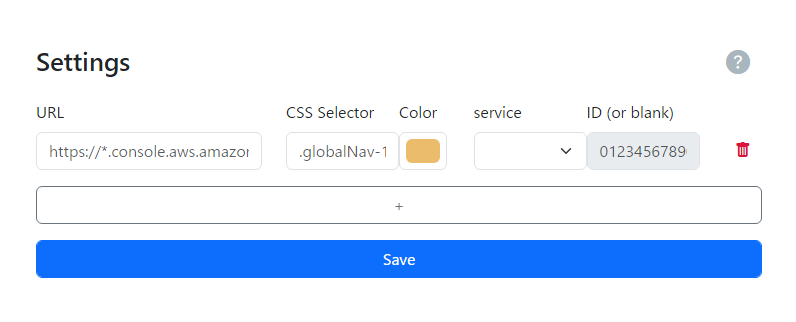
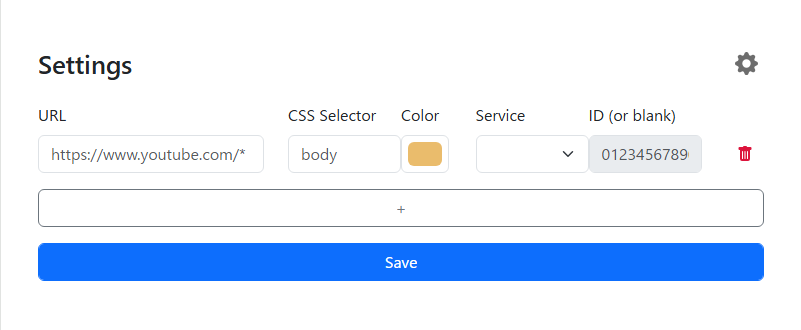
[document fixed] 説明文を追加

diff --git a/view/import_export.html b/view/import_export.html
@@ -6,7 +6,7 @@
     <title>Color Switch Description</title>
     <!-- Bootstrap CSS -->
     <link rel="stylesheet" href="../bootstrap-5.3.0-dist/css/bootstrap.css" />
-    <link href="https://cdn.jsdelivr.net/npm/bootstrap@5.0.2/dist/css/bootstrap.min.css" rel="stylesheet" integrity="sha384-EVSTQN3/azprG1Anm3QDgpJLIm9Nao0Yz1ztcQTwFspd3yD65VohhpuuCOmLASjC" crossorigin="anonymous">
+    <!-- <link href="https://cdn.jsdelivr.net/npm/bootstrap@5.0.2/dist/css/bootstrap.min.css" rel="stylesheet" integrity="sha384-EVSTQN3/azprG1Anm3QDgpJLIm9Nao0Yz1ztcQTwFspd3yD65VohhpuuCOmLASjC" crossorigin="anonymous"> -->
     <style>
       /* Adding soft black shadow around the image */
       .shadowed-img {
@@ -42,7 +42,7 @@
       .nav-link {
         font-size: 1.5em;
       }
-      .area-import{
+      .area-import-export{
         background-color: rgb(242, 242, 242);
         border-radius: 20px;
         width: fit-content;
@@ -77,21 +77,37 @@
 
       <!-- メインページ -->
       <div class="col-8">
-        <div class="area-import mt-5 mb-5 pt-4" style="width: 450px;">
+        <!-- 説明 -->
+        <div class="card mt-3 mb-3">
+          <div class="card-header">
+            <strong>Import and Export</strong>
+          </div>
+          <div class="card-body">
+            <p>
+              You can import and export settings. Only Json format is supported. <br>Click on the 🛈 button to see examples and hover over each button to see a description.
+            </p>
+            <p>
+              設定のインポート・エクスポートが可能です。<br>
+              形式はJsonのみ対応しており、🛈ボタンを押すと例が表示されます。<br>
+              また各ボタンにホバーすることで説明を見れます。
+            <p>
+          </div>
+        </div>
+        <!-- エクスポートボタン -->
+        <div class="area-import-export mt-4 mb-4 pt-3" style="width: 450px;">
           <h1 class="h3 mt-5 text-center">Export</h1>
           <div class="d-flex justify-content-center">
             <div class="row">
-              <!-- エクスポートボタン -->
               <button type="button" class="btn btn-primary mt-4 mb-3" id="export" data-bs-toggle="tooltip" data-bs-placement="right" data-bs-custom-class="custom-tooltip" data-bs-html="true" data-bs-title="Export current settings.<br> 現在の設定をエクスポートします。">Export Json</button>
             </div>
           </div>
         </div>
         <!-- インポートボタン -->
         <div class="row">
-          <div class="area-import pt-5 pb-5 col-1" style="width: 450px;" >
-            <h1 class="h3 pb-3 text-center">Import Json
+          <div class="area-import-export pt-4 pb-5 col-1" style="width: 450px;" >
+            <h1 class="h3 pb-3 text-center">Import
               <button id="info-icon" class="bi-question-circle-fill pt-4" data-bs-toggle="tooltip" data-bs-placement="right" data-bs-custom-class="custom-tooltip" data-bs-html="true" data-bs-title="Show example format.<br> 例を表示する。">
-                <svg xmlns="http://www.w3.org/2000/svg" width="23" height="23" fill="currentColor" class="bi bi-info-circle" viewBox="0 0 16 16">
+                <svg width="23" height="23" fill="currentColor" class="bi bi-info-circle" viewBox="0 0 16 16">
                   <path d="M8 15A7 7 0 1 1 8 1a7 7 0 0 1 0 14m0 1A8 8 0 1 0 8 0a8 8 0 0 0 0 16"/>
                   <path d="m8.93 6.588-2.29.287-.082.38.45.083c.294.07.352.176.288.469l-.738 3.468c-.194.897.105 1.319.808 1.319.545 0 1.178-.252 1.465-.598l.088-.416c-.2.176-.492.246-.686.246-.275 0-.375-.193-.304-.533zM9 4.5a1 1 0 1 1-2 0 1 1 0 0 1 2 0"/>
                 </svg>
@@ -99,7 +115,7 @@
             
             <div class="d-flex justify-content-center">
               <div class="row">
-                <input type="file" class="form-control col-3 mt-3 mb-3" id="file-chooser" accept=".json" data-bs-toggle="tooltip" data-bs-placement="right" data-bs-custom-class="custom-tooltip" data-bs-html="true" data-bs-title="You can import only json format.<br> Jsonファイルのみインポート可能です。"/>
+                <input type="file" class="form-control col-3 mt-3 mb-3" id="file-chooser" accept=".json" data-bs-toggle="tooltip" data-bs-placement="right" data-bs-custom-class="custom-tooltip" data-bs-html="true" data-bs-title="Only json format supported.<br> Jsonファイルのみインポート可能です。"/>
               </div>
             </div>
             <div class="d-flex justify-content-center">

diff --git a/view/info.html b/view/info.html
@@ -3,7 +3,7 @@
   <head>
     <meta charset="UTF-8" />
     <meta name="viewport" content="width=device-width, initial-scale=1.0" />
-    <title>Color Switch Description</title>
+    <title>Color Changer Description</title>
     <!-- Bootstrap CSS -->
     <link rel="stylesheet" href="../bootstrap-5.3.0-dist/css/bootstrap.css" />
     <style>
@@ -62,17 +62,20 @@
       <!-- メインページ -->
       <div class="col-10 p-0">
         <div class="container">
-          <h1 class="mb-4">Description of Color Switch</h1>
+          <h1 class="mb-4">Description of Color Changer</h1>
 
-          <p class="lead">Color Switchの説明</p>
+          <p class="lead">Color Changerの説明</p>
 
           <!-- Insert Image -->
           <div class="text-center mb-4">
-            <img
-              src="../images/info_page1.png"
-              alt="Extension Settings"
-              class="img-fluid shadowed-img"
-            />
+            <a
+              href="https://chromewebstore.google.com/detail/color-changer-websites-co/cbbnibbcjfjfomnmbdkoobcdelfcklka"
+            >
+              <img
+                src="../images/info_page1.png"
+                alt="Extension Settings"
+                class="img-fluid shadowed-img"
+            /></a>
           </div>
 
           <!-- URL Section -->
@@ -115,10 +118,18 @@
                 The <strong>CSS Selector</strong> field specifies a CSS
                 selector. This allows you to change the background of the page
                 as well as the color of certain parts of the page.
+                <a
+                  href="https://developer.mozilla.org/en-US/docs/Learn_web_development/Core/Styling_basics/Getting_started"
+                  >What is CSS Selector??</a
+                >
               </p>
               <p>
                 <strong>CSSセレクタ</strong>
                 には、CSSセレクタを指定します。これによりページの背景の他、特定の部分だけ色を変えることができます。
+                <a
+                  href="https://developer.mozilla.org/ja/docs/Learn_web_development/Core/Styling_basics/Getting_started"
+                  >CSSセレクタについて</a
+                >
               </p>
               <div class="alert alert-info" role="alert">
                 <p>
@@ -178,9 +189,34 @@
                 trash can icon (<strong>🗑</strong>).
               </p>
               <p>
+                Please don't forget to hit the save button after you added your
+                settings!
+              </p>
+              <p>
                 プラスアイコン (<strong>+</strong>)
                 をクリックして新しいルールを追加できます。ゴミ箱アイコン
                 (<strong>🗑</strong>) で既存のルールを削除できます。
+              </p>
+              <p>ルールを追加した後は保存ボタンを押して適用します。</p>
+            </div>
+          </div>
+
+          <!-- Import and Export -->
+          <div class="card mb-3">
+            <div class="card-header">
+              <strong>Import and Export</strong>
+            </div>
+            <div class="card-body">
+              <p>
+                You can import and export in Json format. See the
+                <a href="../view/import_export.html">Import/Export</a> section
+                for details.
+              </p>
+              <p>
+                Json形式でインポートやエクスポートができます。詳しくは<a
+                  href="../view/import_export.html"
+                  >Import Export</a
+                >ページを参照ください。
               </p>
             </div>
           </div>

diff --git a/view/popup.html b/view/popup.html
@@ -33,13 +33,7 @@
       <div class="d-flex justify-content-between">
         <h1 class="h3 mt-5 pb-3">Settings</h1>
         <button id="info-icon" class="bi-question-circle-fill pt-4">
-          <svg
-            xmlns="http://www.w3.org/2000/svg"
-            width="23"
-            height="23"
-            fill="currentColor"
-            viewBox="0 0 16 16"
-          >
+          <svg width="23" height="23" fill="currentColor" viewBox="0 0 16 16">
             <path
               d="M9.405 1.05c-.413-1.4-2.397-1.4-2.81 0l-.1.34a1.464 1.464 0 0 1-2.105.872l-.31-.17c-1.283-.698-2.686.705-1.987 1.987l.169.311c.446.82.023 1.841-.872 2.105l-.34.1c-1.4.413-1.4 2.397 0 2.81l.34.1a1.464 1.464 0 0 1 .872 2.105l-.17.31c-.698 1.283.705 2.686 1.987 1.987l.311-.169a1.464 1.464 0 0 1 2.105.872l.1.34c.413 1.4 2.397 1.4 2.81 0l.1-.34a1.464 1.464 0 0 1 2.105-.872l.31.17c1.283.698 2.686-.705 1.987-1.987l-.169-.311a1.464 1.464 0 0 1 .872-2.105l.34-.1c1.4-.413 1.4-2.397 0-2.81l-.34-.1a1.464 1.464 0 0 1-.872-2.105l.17-.31c.698-1.283-.705-2.686-1.987-1.987l-.311.169a1.464 1.464 0 0 1-2.105-.872zM8 10.93a2.929 2.929 0 1 1 0-5.86 2.929 2.929 0 0 1 0 5.858z"
             />
@@ -55,7 +49,7 @@
               type="url"
               class="form-control"
               id="url-row-1"
-              placeholder="https://*.console.aws.amazon.com/*"
+              placeholder="https://www.youtube.com/*"
               required
             />
           </div>
@@ -66,7 +60,7 @@
             <input
               class="form-control"
               id="css-selector-row-1"
-              placeholder=".globalNav-123"
+              placeholder="body"
               required
             />
           </div>
@@ -111,7 +105,6 @@
             <label class="form-label">　</label>
             <button class="form-control bi bi-trash-fill" id="delete-row-1">
               <svg
-                xmlns="http://www.w3.org/2000/svg"
                 width="16"
                 height="16"
                 fill="currentColor"
